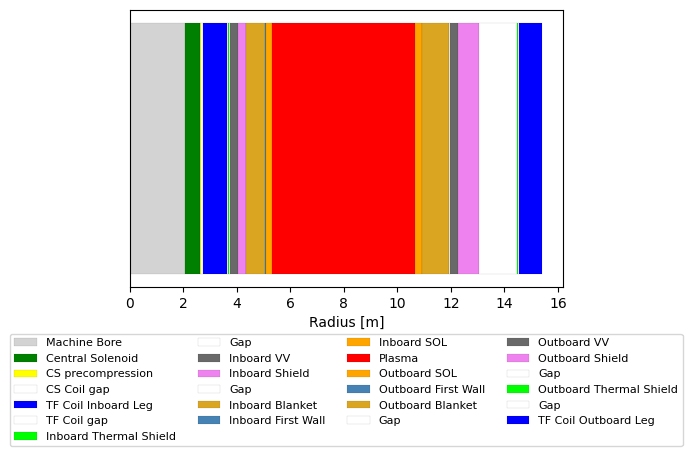
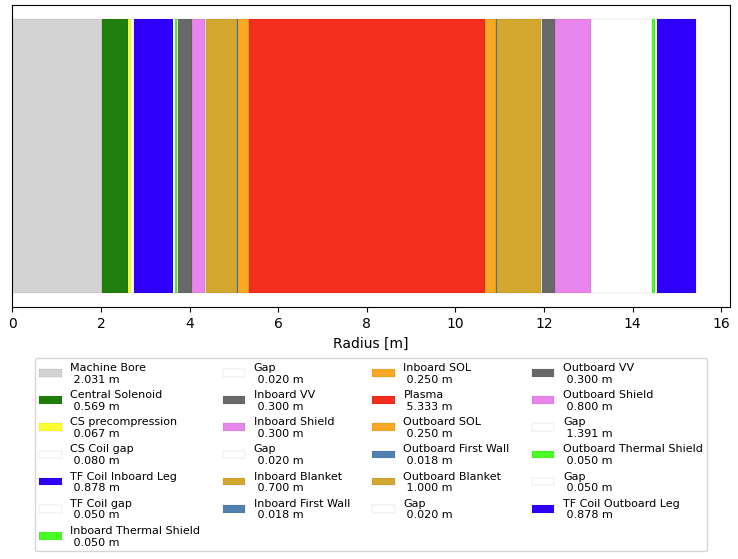
Add L-H threshold comparison plot and improve bootstrap comparison la… (#3405)
* Add L-H threshold comparison plot and improve bootstrap comparison labels. Make plot_radial_build only shows values to 3dp

* Update documentation for PROCESS PDF summary and enhance figure caption for clarity

diff --git a/process/io/plot_proc.py b/process/io/plot_proc.py
@@ -2955,18 +2955,18 @@ def plot_bootstrap_comparison(axis, mfile_data, scan):
 
     # Plot average, standard deviation, and median as text
     axis.text(
-        0.65, 0.9, f"Average: {avg_bootstrap:.4f}", transform=axis.transAxes, fontsize=9
+        1.02, 0.2, f"Average: {avg_bootstrap:.4f}", transform=axis.transAxes, fontsize=9
     )
     axis.text(
-        0.65,
-        0.85,
+        1.02,
+        0.15,
         f"Standard Dev: {std_bootstrap:.4f}",
         transform=axis.transAxes,
         fontsize=9,
     )
     axis.text(
-        0.65,
-        0.8,
+        1.02,
+        0.1,
         f"Median: {median_bootstrap:.4f}",
         transform=axis.transAxes,
         fontsize=9,
@@ -2977,6 +2977,137 @@ def plot_bootstrap_comparison(axis, mfile_data, scan):
     axis.set_xlim([0.5, 1.5])
     axis.set_xticks([])
     axis.set_xticklabels([])
+    axis.set_facecolor("#f0f0f0")
+
+
+def plot_h_threshold_comparison(
+    axis: plt.Axes, mfile_data: mf.MFile, scan: int
+) -> None:
+    """
+    Function to plot a scatter box plot of L-H threshold power comparisons.
+
+    Arguments:
+        axis (plt.Axes): Axis object to plot to.
+        mfile_data (mf.MFile): MFILE data object.
+        scan (int): Scan number to use.
+    """
+    iter_nominal = mfile_data.data["pthrmw(1)"].get_scan(scan)
+    iter_upper = mfile_data.data["pthrmw(2)"].get_scan(scan)
+    iter_lower = mfile_data.data["pthrmw(3)"].get_scan(scan)
+    iter_1997_1 = mfile_data.data["pthrmw(4)"].get_scan(scan)
+    iter_1997_2 = mfile_data.data["pthrmw(5)"].get_scan(scan)
+    martin_nominal = mfile_data.data["pthrmw(6)"].get_scan(scan)
+    martin_upper = mfile_data.data["pthrmw(7)"].get_scan(scan)
+    martin_lower = mfile_data.data["pthrmw(8)"].get_scan(scan)
+    snipes_nominal = mfile_data.data["pthrmw(9)"].get_scan(scan)
+    snipes_upper = mfile_data.data["pthrmw(10)"].get_scan(scan)
+    snipes_lower = mfile_data.data["pthrmw(11)"].get_scan(scan)
+    snipes_closed_nominal = mfile_data.data["pthrmw(12)"].get_scan(scan)
+    snipes_closed_upper = mfile_data.data["pthrmw(13)"].get_scan(scan)
+    snipes_closed_lower = mfile_data.data["pthrmw(14)"].get_scan(scan)
+    hubbard_nominal = mfile_data.data["pthrmw(15)"].get_scan(scan)
+    hubbard_lower = mfile_data.data["pthrmw(16)"].get_scan(scan)
+    hubbard_upper = mfile_data.data["pthrmw(17)"].get_scan(scan)
+    hubbard_2017 = mfile_data.data["pthrmw(18)"].get_scan(scan)
+    martin_aspect_nominal = mfile_data.data["pthrmw(19)"].get_scan(scan)
+    martin_aspect_upper = mfile_data.data["pthrmw(20)"].get_scan(scan)
+    martin_aspect_lower = mfile_data.data["pthrmw(21)"].get_scan(scan)
+
+    # Data for the box plot
+    data = {
+        "ITER 1996 Nominal": iter_nominal,
+        "ITER 1996 Upper": iter_upper,
+        "ITER 1996 Lower": iter_lower,
+        "ITER 1997 (1)": iter_1997_1,
+        "ITER 1997 (2)": iter_1997_2,
+        "Martin Nominal": martin_nominal,
+        "Martin Upper": martin_upper,
+        "Martin Lower": martin_lower,
+        "Snipes Nominal": snipes_nominal,
+        "Snipes Upper": snipes_upper,
+        "Snipes Lower": snipes_lower,
+        "Snipes Closed Divertor Nominal": snipes_closed_nominal,
+        "Snipes Closed Divertor Upper": snipes_closed_upper,
+        "Snipes Closed Divertor Lower": snipes_closed_lower,
+        "Hubbard Nominal (I-mode)": hubbard_nominal,
+        "Hubbard Lower (I-mode)": hubbard_lower,
+        "Hubbard Upper (I-mode)": hubbard_upper,
+        "Hubbard 2017 (I-mode)": hubbard_2017,
+        "Martin Aspect Corrected Nominal": martin_aspect_nominal,
+        "Martin Aspect Corrected Upper": martin_aspect_upper,
+        "Martin Aspect Corrected Lower": martin_aspect_lower,
+    }
+
+    # Create the violin plot
+    axis.violinplot(data.values(), showextrema=False)
+
+    # Create the box plot
+    axis.boxplot(
+        data.values(), showfliers=True, showmeans=True, meanline=True, widths=0.3
+    )
+
+    # Scatter plot for each data point
+    colors = plt.cm.plasma(np.linspace(0, 1, len(data.values())))
+    x_values = np.random.normal(loc=1, scale=0.01, size=len(data.values()))
+    for index, (key, value) in enumerate(data.items()):
+        if "ITER 1996" in key:
+            color = "blue"
+        elif "ITER 1997" in key:
+            color = "cyan"
+        elif "Martin" in key and "Aspect" not in key:
+            color = "green"
+        elif "Snipes" in key and "Closed" not in key:
+            color = "red"
+        elif "Snipes Closed" in key:
+            color = "orange"
+        elif "Martin Aspect" in key:
+            color = "yellow"
+        elif "Hubbard" in key and "2017" not in key:
+            color = "purple"
+        elif "Hubbard 2017" in key:
+            color = "magenta"
+        else:
+            color = colors[index]
+        axis.scatter(x_values[index], value, color=color, label=key, alpha=1.0)
+        axis.legend(loc="upper left", bbox_to_anchor=(-1.1, 1), ncol=2)
+
+    # Calculate average, standard deviation, and median
+    data_values = list(data.values())
+    avg_threshold = np.mean(data_values)
+    std_threshold = np.std(data_values)
+    median_threshold = np.median(data_values)
+
+    # Plot average, standard deviation, and median as text
+    axis.text(
+        -0.45,
+        0.15,
+        f"Average: {avg_threshold:.4f}",
+        transform=axis.transAxes,
+        fontsize=9,
+    )
+    axis.text(
+        -0.45,
+        0.1,
+        f"Standard Dev: {std_threshold:.4f}",
+        transform=axis.transAxes,
+        fontsize=9,
+    )
+    axis.text(
+        -0.45,
+        0.05,
+        f"Median: {median_threshold:.4f}",
+        transform=axis.transAxes,
+        fontsize=9,
+    )
+
+    axis.set_title("L-H Threshold Comparison")
+    axis.set_ylabel("L-H threshold power [MW]")
+    axis.set_xlim([0.5, 1.5])
+    axis.set_xticks([])
+    axis.set_xticklabels([])
+
+    # Add background color
+    axis.set_facecolor("#f0f0f0")
 
 
 def main_plot(
@@ -3082,6 +3213,9 @@ def main_plot(
 
     plot_9 = fig4.add_subplot(221)
     plot_bootstrap_comparison(plot_9, m_file_data, scan)
+
+    plot_10 = fig4.add_subplot(224)
+    plot_h_threshold_comparison(plot_10, m_file_data, scan)
 
 
 def main(args=None):

diff --git a/process/io/plot_radial_build.py b/process/io/plot_radial_build.py
@@ -353,7 +353,8 @@ def main(args=None):
             radial_build[kk, :],
             left=lower,
             height=0.8,
-            label=f"{radial_labels[kk]}" + f"\n {radial_build[kk][0]} m" * args.numbers,
+            label=f"{radial_labels[kk]}"
+            + f"\n {radial_build[kk][0]:.3f} m" * args.numbers,
             color=radial_color[kk],
             edgecolor="black",
             linewidth=0.05,

diff --git a/documentation/proc-pages/io/utilities.md b/documentation/proc-pages/io/utilities.md
@@ -65,11 +65,11 @@ A `.csv` file will be saved to the directory of the input file.
 
 
 
-## PROCESS 3-Page PDF Summary
+## PROCESS 4-Page PDF Summary
 
 > `process/io/plot_proc.py`
 
-A utility to produce a four-page PDF summary of the output from PROCESS, including the major parameters, poloidal and toroidal cross-sections, temperature and density profiles and TF coil layout and turn strucuture.
+A utility to produce a four-page PDF summary of the output from PROCESS, including the major parameters, poloidal and toroidal cross-sections, temperature and density profiles and TF coil layout and turn structure.
 
 ### Usage
 

diff --git a/documentation/proc-pages/usage/plotting.md b/documentation/proc-pages/usage/plotting.md
@@ -31,7 +31,7 @@ process -i path/to/IN.DAT --plot --mfile path/to/MFILE.DAT
 
 <figure markdown>
 ![plot_proc_4](../images/plot_proc_4.PNG){ width="100%"}
-<figcaption>Figure 4: plot_proc bootstrap current model comparison page </figcaption>
+<figcaption>Figure 4: plot_proc bootstrap current model and L-H threshold comparison page </figcaption>
 </figure>
 
 <h3>Scan files</h3>
